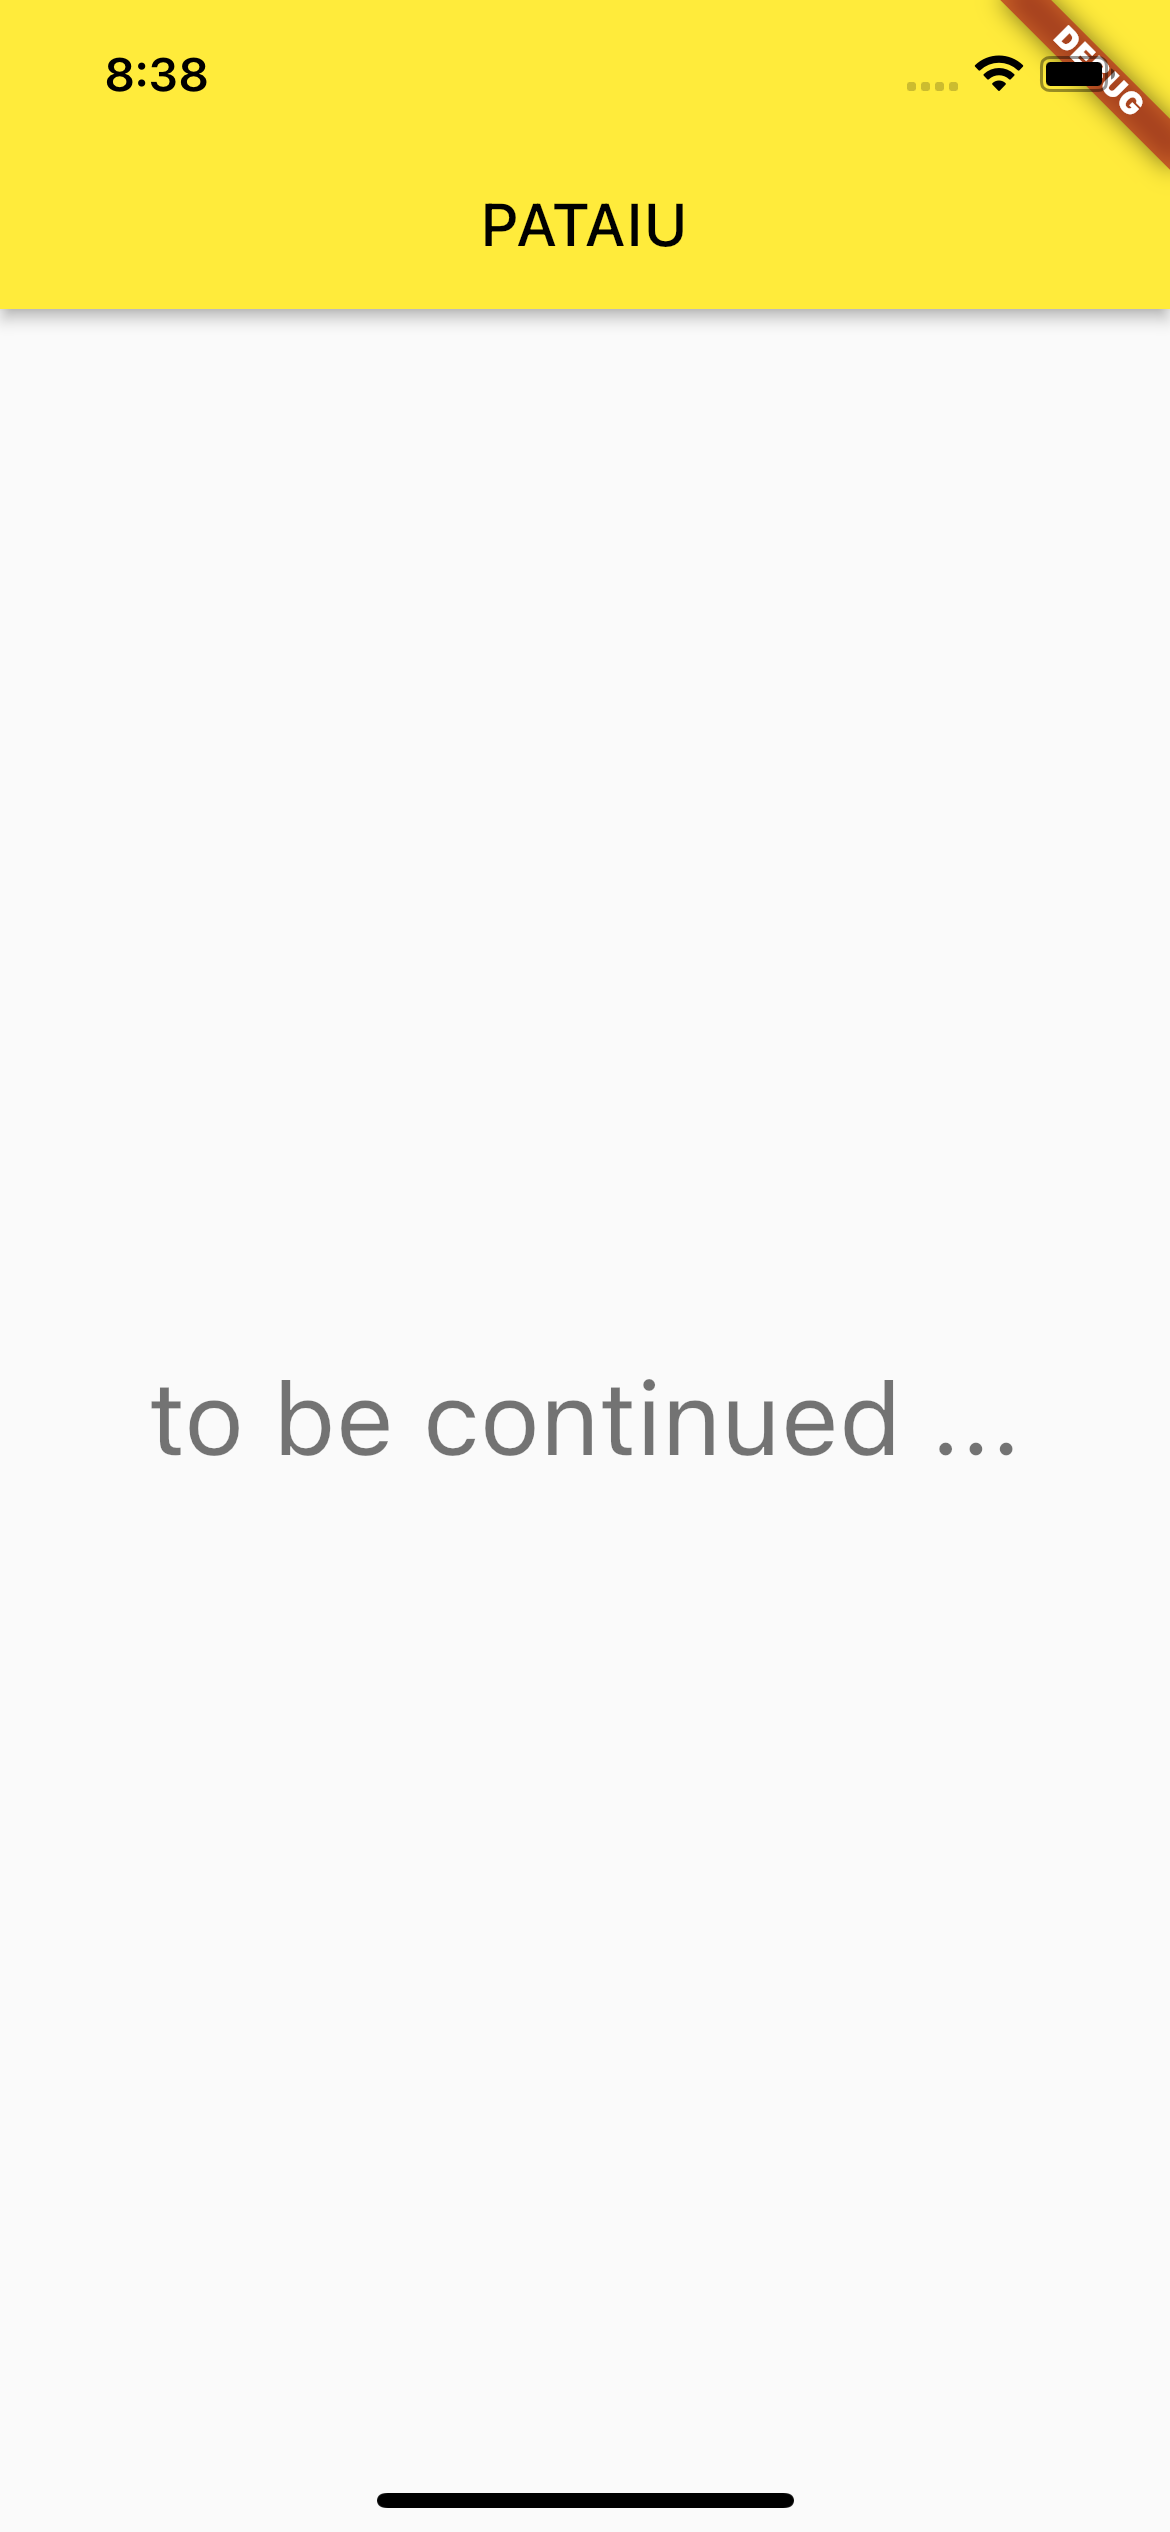
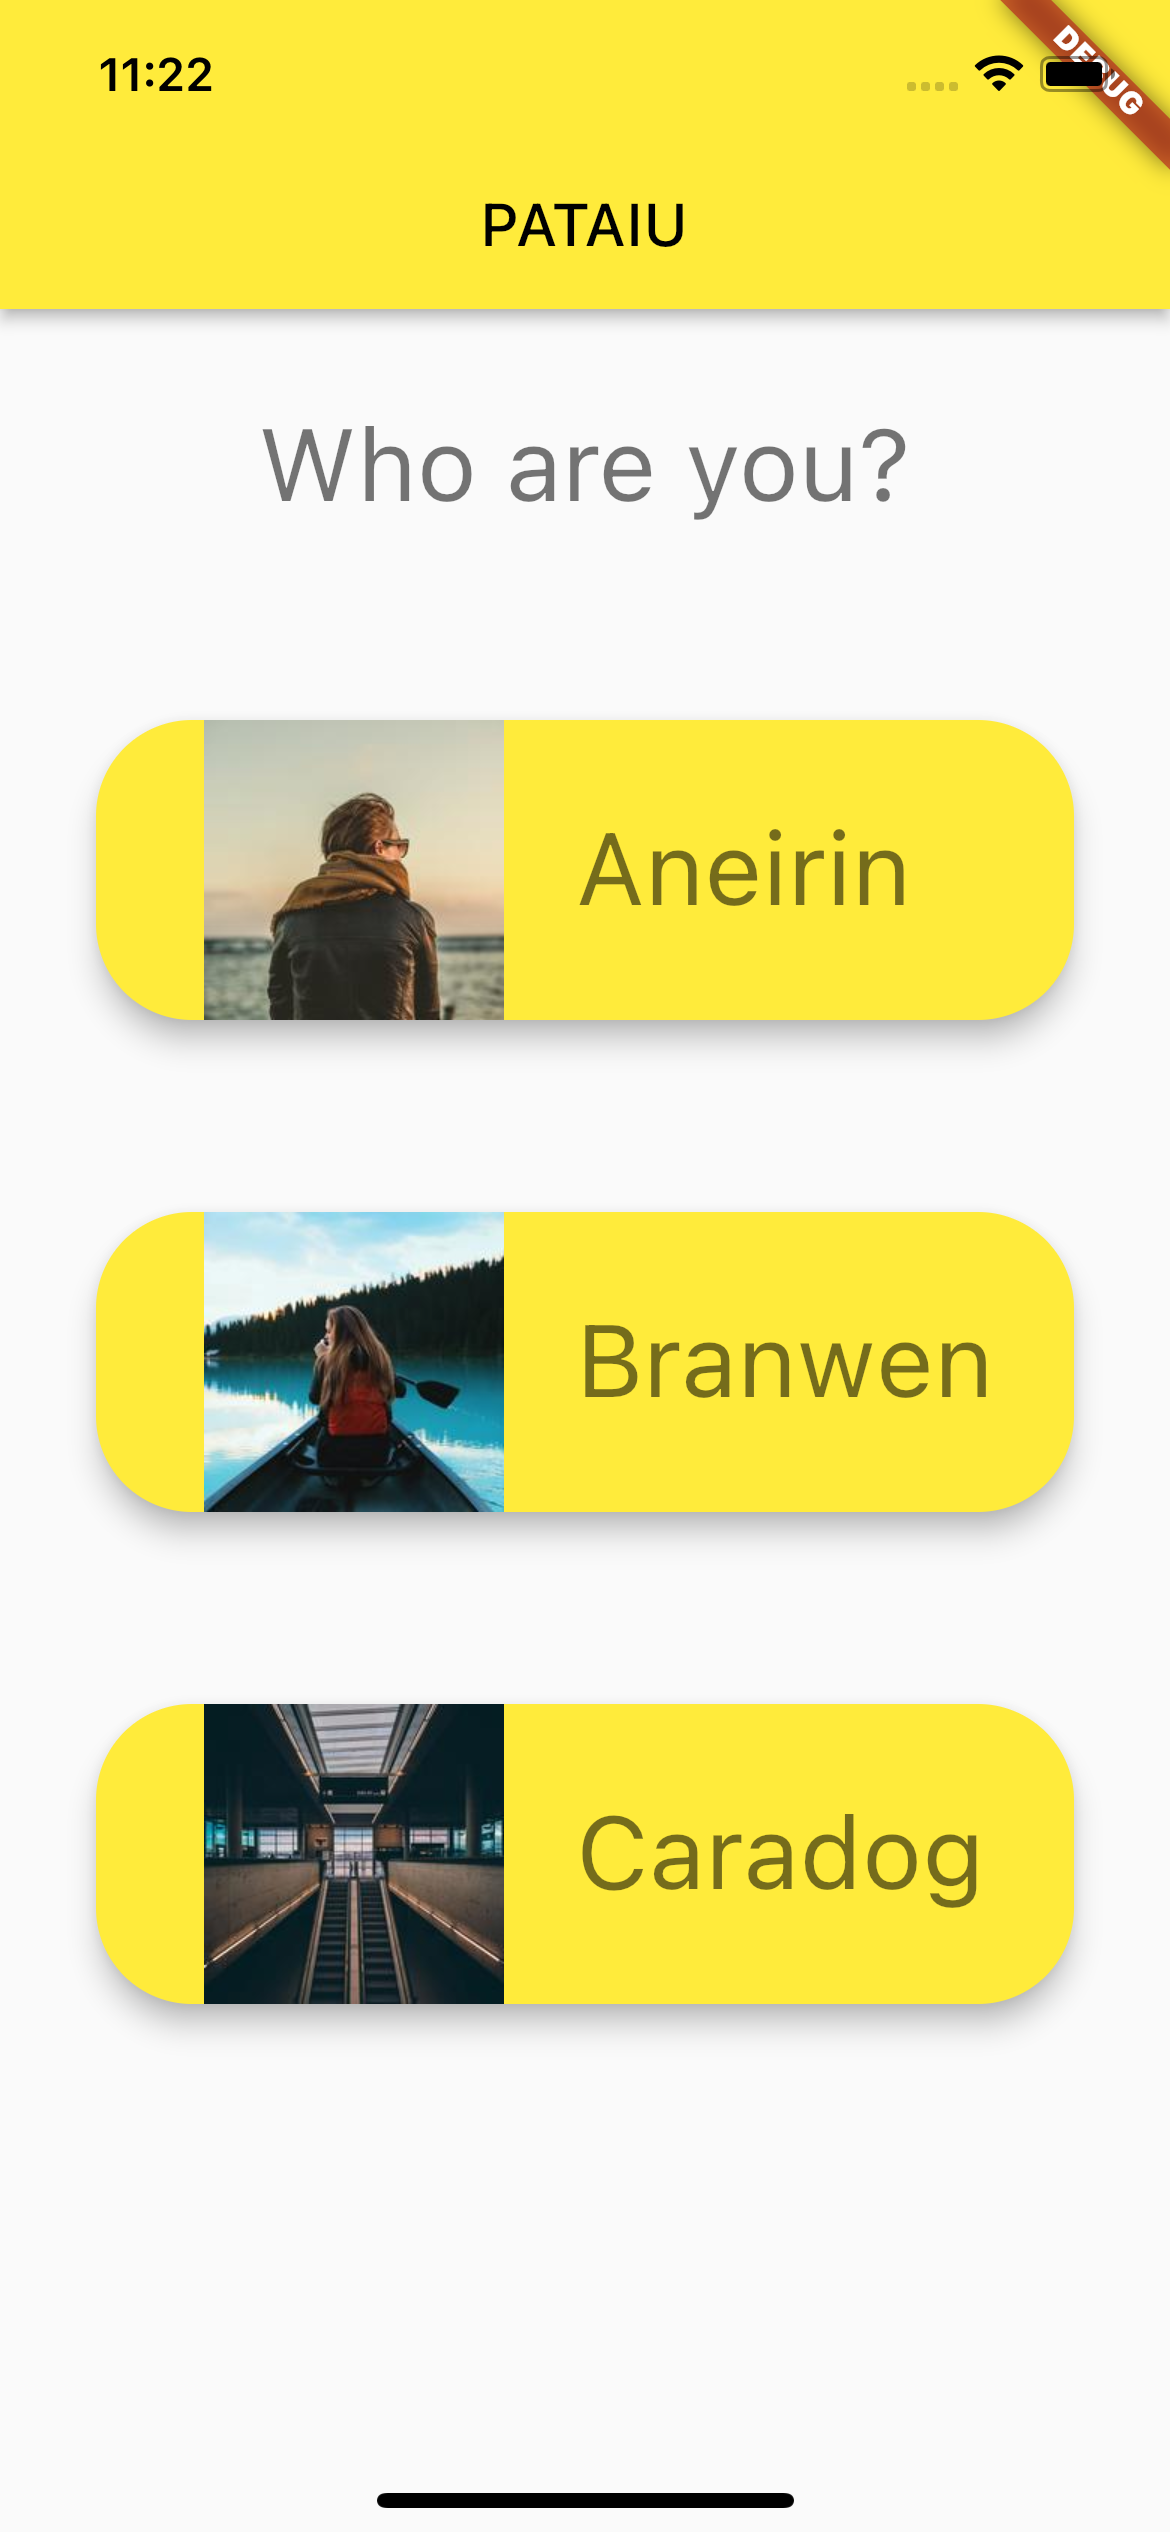
the fake login screen with fake users

diff --git a/lib/login.dart b/lib/login.dart
@@ -14,22 +14,56 @@ class LoginPage extends StatelessWidget {
               children: [
                 Padding(
                   padding: const EdgeInsets.all(32.0),
-                  child: Text('Login Page', style: Theme.of(context).textTheme.headline4),
+                  child: Text('Who are you?', style: Theme.of(context).textTheme.headline4),
                 ),
+                const UserButton(name: 'Aneirin', image: '1005'),
+                const UserButton(name: 'Branwen', image: '1011'),
+                const UserButton(name: 'Caradog', image: '1033'),
                 const Spacer(),
-                Padding(
-                  padding: const EdgeInsets.all(32.0),
-                  child: ElevatedButton(
-                      onPressed: () => Navigator.pushReplacementNamed(context, '/welcome'),
-                      child: Padding(
-                        padding: const EdgeInsets.all(16.0),
-                        child: Text('Sign in', style: Theme.of(context).textTheme.headline5),
-                      )
-                  ),
-                )
+
               ]
           )
       ),
     );
   }
 }
+
+class UserButton extends StatelessWidget {
+  final String name;
+  final String image;
+  const UserButton({
+    required this.name,
+    this.image = '1005',
+    Key? key}) : super(key: key);
+
+  @override
+  Widget build(BuildContext context) {
+    return Padding(
+      padding: const EdgeInsets.all(32.0),
+      child: Material(
+          color: Theme.of(context).primaryColor,
+          elevation: 8,
+          borderRadius: BorderRadius.circular(32),
+          child:
+            InkWell(
+              onTap: () => Navigator.pushReplacementNamed(context, '/welcome'),
+              child: Row(
+                  children: [
+                    const SizedBox(width: 36),
+                    Ink.image(
+                      image: NetworkImage('https://picsum.photos/200?image='+image),
+                      width: 100,
+                      height: 100,
+                      fit: BoxFit.cover,
+                    ),
+                const SizedBox(width: 24),
+                Text(name, style: Theme.of(context).textTheme.headline4),
+              ]
+          ),
+        ),
+      ),
+    );
+
+  }
+}
+

diff --git a/README.md b/README.md
@@ -12,6 +12,7 @@ Sometime, to run an event one may need a group of suitably qualified individuals
 
 &nbsp;
 ## The result
-So far it looks as unimpressive as this:
+
+The 'login' screen
 
 ![](./docs/images/first.png)
